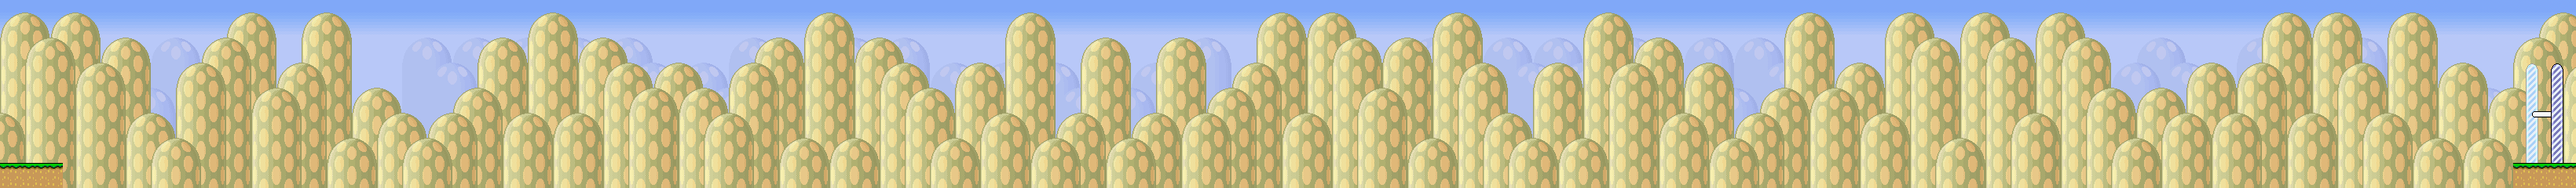
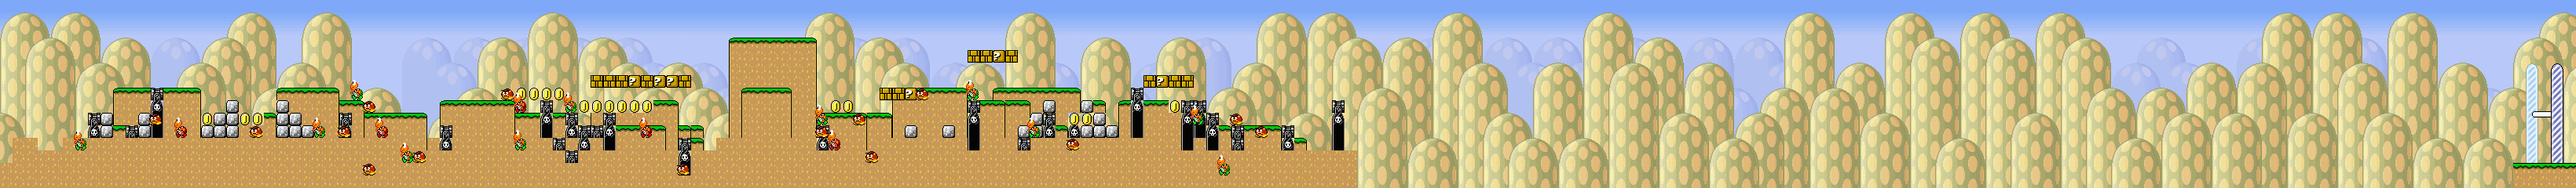
All general generation stuff is done, need to design level chunks and work on phenotypes, and parameter tweaking

Changed region(s): [[0.0, 0.175, 0.5287, 1.0], [0.3732, 0.2625, 0.4043, 0.35]]

diff --git a/homework7/src/dk/itu/mario/engine/level/MyLevel.java b/homework7/src/dk/itu/mario/engine/level/MyLevel.java
@@ -25,6 +25,7 @@ public class MyLevel extends Level{
 
   public MyLevel(int width, int height) {
     super(width, height);
+    random = new Random();
   }
 
   public MyLevel(MyDNA dna, int type) {
@@ -43,6 +44,24 @@ public class MyLevel extends Level{
     // Start your level at block index STARTOFFSET.
     //// YOUR CODE GOES BELOW HERE ////
 
+    int currentWorldLoc = DEFAULTHEIGHT;
+
+    for (int i=0;i<dna.length;i++) {
+      switch (dna.chromosome.charAt(i)) {
+        case 'a':
+          currentWorldLoc += this.buildCannons(i, 10);
+          break;
+        case 'b':
+          currentWorldLoc += this.buildHillStraight(i, 10, 1);
+          break;
+        case 'c':
+          currentWorldLoc += this.buildHillStraight(i,10, 1);
+          break;
+        case 'd':
+          currentWorldLoc += this.buildJump(i, 10);
+          break;
+      }
+    }
 
     //// YOUR CODE GOES ABOVE HERE ////
 
@@ -56,10 +75,7 @@ public class MyLevel extends Level{
     yExit = DEFAULTHEIGHT-2;
   }
 
-
-
   /* BELOW HERE ARE EXAMPLE FUNCTIONS FOR HOW TO CREATE SOME INTERESTING STRUCTURES */
-
 
   //A built in function for helping to build a jump
   public int buildJump(int xo, int maxLength) {
@@ -137,7 +153,6 @@ public class MyLevel extends Level{
         }
       }
     }
-
     return length;
   }
 
@@ -207,8 +222,7 @@ public class MyLevel extends Level{
   }
 
   //A built in function for adding a line of enemies at a given height (y) and difficulty
-  public void addEnemyLine(int x0, int x1, int y, int difficulty)
-  {
+  public void addEnemyLine(int x0, int x1, int y, int difficulty) {
     for (int x = x0; x < x1; x++) {
       if (random.nextInt(35) < difficulty + 1) {
         int type = random.nextInt(4);
@@ -268,7 +282,6 @@ public class MyLevel extends Level{
     }
     return length;
   }
-
 
   //A built in function for building a straight path
   public int buildStraight(int xo, int maxLength, boolean safe, int difficulty) {

diff --git a/homework7/src/dk/itu/mario/engine/level/generator/MyLevelGenerator.java b/homework7/src/dk/itu/mario/engine/level/generator/MyLevelGenerator.java
@@ -137,9 +137,9 @@ public class MyLevelGenerator {
     // Get the winner
     solution = this.getBestIndividual(population);
 
-    if (this.verbose) {
-      System.out.println("Solution: " + solution + " fitnes: " + solution.getFitness());
-    }
+    // if (this.verbose) {
+    System.out.println("Solution: " + solution + " fitnes: " + solution.getFitness());
+    // }
 
     return solution;
   }
@@ -160,7 +160,15 @@ public class MyLevelGenerator {
     boolean decision = false;
     // YOUR CODE GOES BELOW HERE
 
-    if (count > 2) {
+    // Check if we have a fit enough candidate
+    MyDNA best = getBestIndividual(population);
+    if (best.getFitness() > 0.8) {
+      decision = true;
+    }
+
+    // Hard stop after a certain number of generations
+    if (count > 100) {
+      System.out.println("Couldn't reach desired fitness");
       decision = true;
     }
 
@@ -187,7 +195,7 @@ public class MyLevelGenerator {
     int num = 1; // Default needs to be changed
     // YOUR CODE GOES BELOW HERE
 
-    num = 10;
+    num = 100;
 
     // YOUR CODE GOES ABOVE HERE
     return num;
@@ -198,7 +206,7 @@ public class MyLevelGenerator {
     int num = 0; // Default is no crossovers
     // YOUR CODE GOES BELOW HERE
 
-    num = 4;
+    num = 50;
 
     // YOUR CODE GOES ABOVE HERE
     return num;
@@ -206,7 +214,7 @@ public class MyLevelGenerator {
   }
 
   private int numberOfMutations () {
-    int num = 5;
+    int num = 50;
     return num;
   }
 
@@ -305,7 +313,6 @@ public class MyLevelGenerator {
     MyLevel level = new MyLevel(dna, LevelInterface.TYPE_OVERGROUND);
     fitness = playerProfile.evaluateLevel(level);
     // YOUR CODE GOES ABOVE HERE
-    fitness = Math.random()*100;
     return fitness;
   }
 

diff --git a/homework7/src/dk/itu/mario/engine/level/MyDNA.java b/homework7/src/dk/itu/mario/engine/level/MyDNA.java
@@ -104,7 +104,7 @@ public class MyDNA extends DNA
   }
 
   public void randomizeChrom() {
-    int defaultChromLength = 10;
+    int defaultChromLength = 100;
     String chrom = new String("");
 
     for (int i=0;i<defaultChromLength;i++) {
